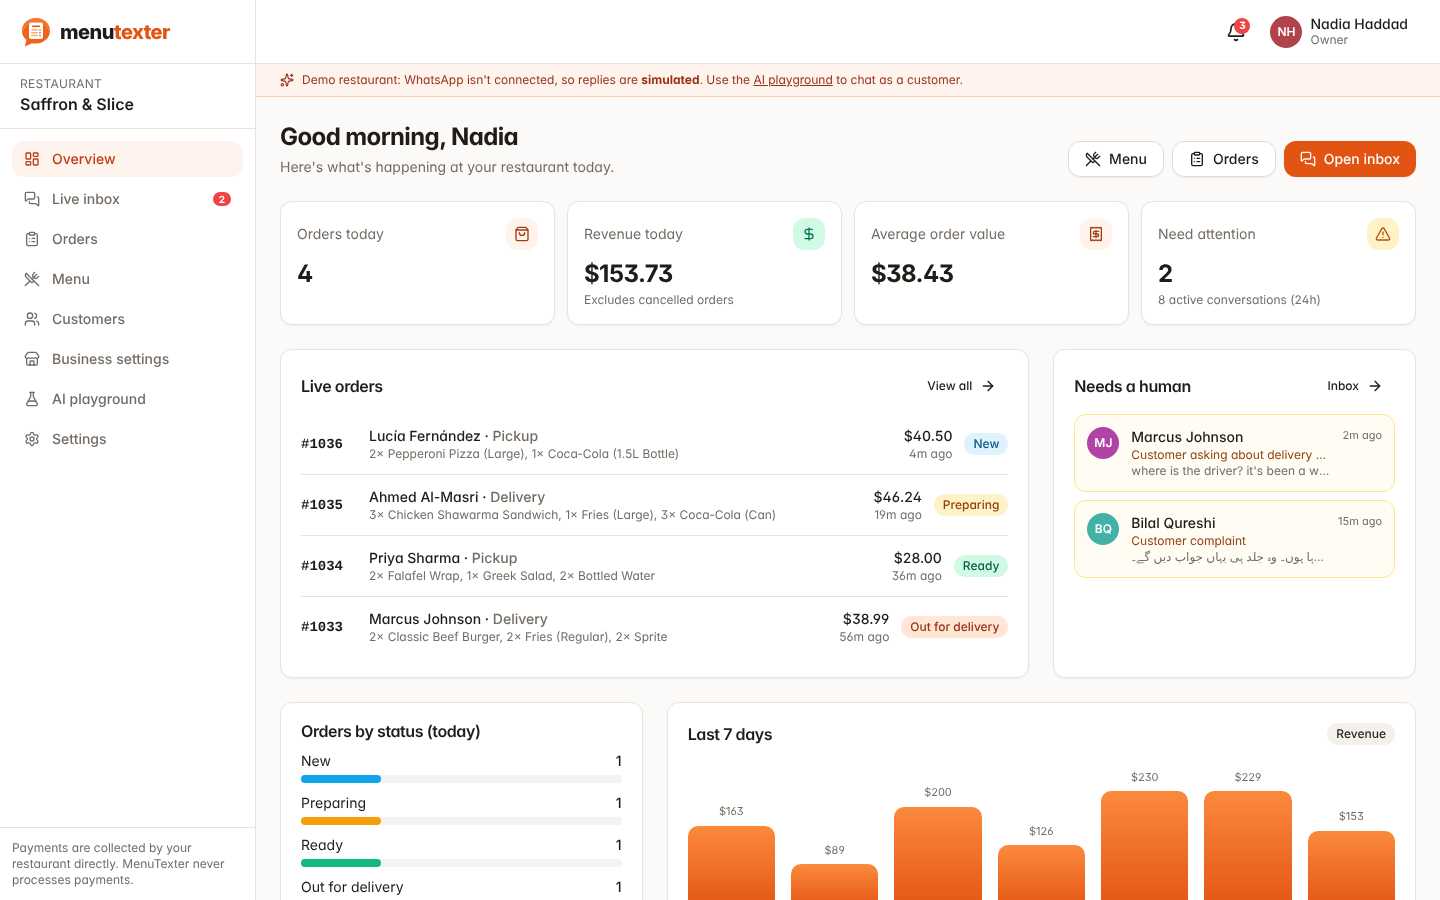
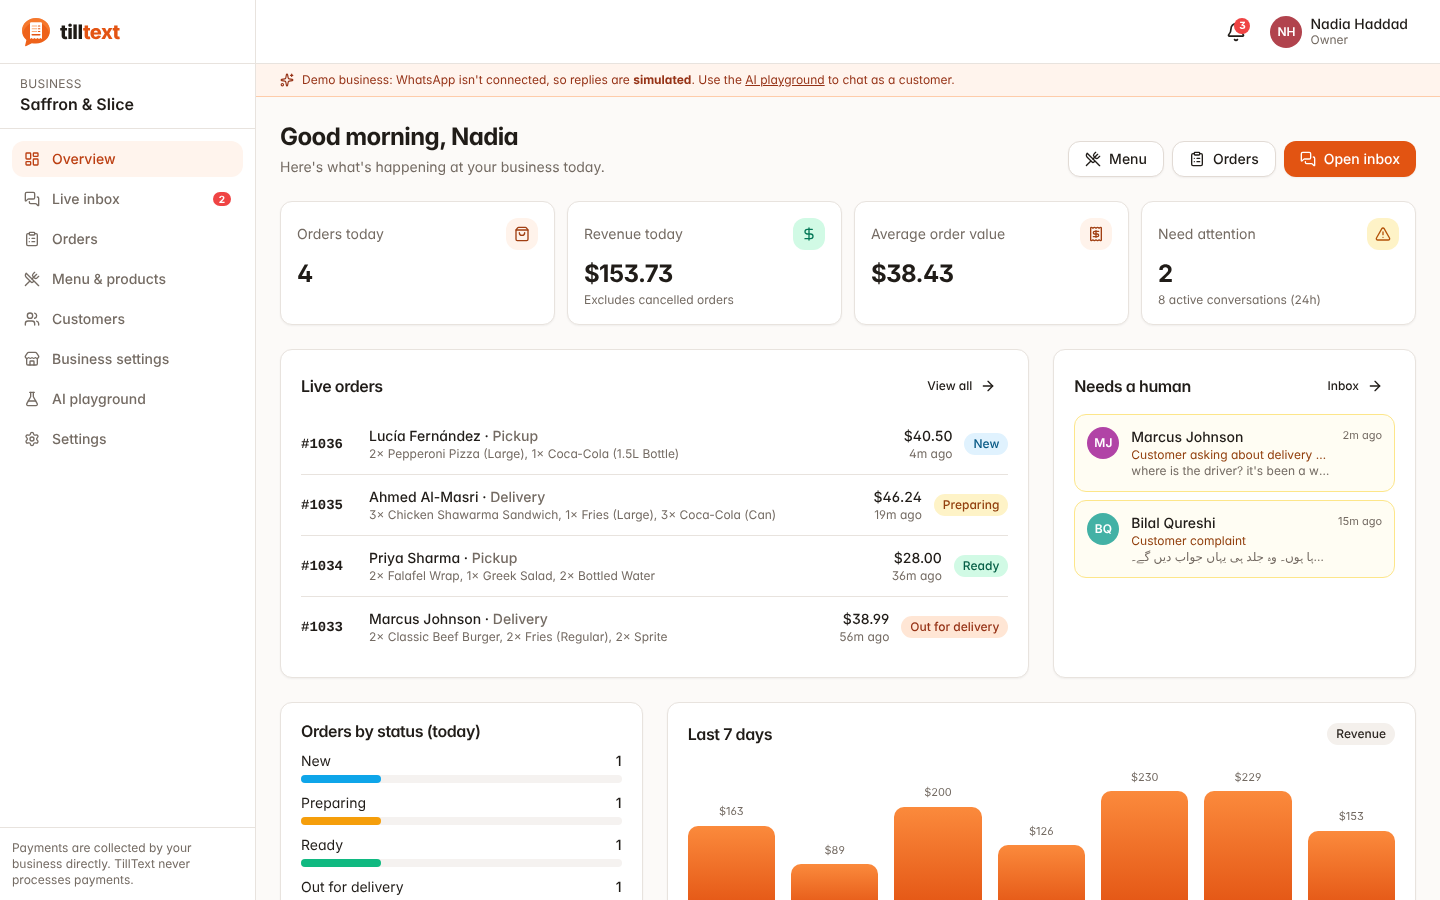
Rebrand to TillText and make wording fit any local business
- Renamed MenuTexter -> TillText everywhere (UI, titles, docs, seed accounts demo@tilltext.app,
  package name, env template). tilltext.com was unregistered at the time of the rename.
- New logo: chat bubble holding a till receipt (item lines, prices, total).
- Visible copy no longer restaurant-only: business account/profile, "Menu & products",
  login hero mentions shops, groceries and pharmacies; English AI replies say
  "Here's what we have" instead of "our menu".
- README screenshots retaken.

Claude-Session: https://claude.ai/code/session_01PKQpAwiS1Dx16gNLSgQ5dy

diff --git a/src/components/settings/forms.tsx b/src/components/settings/forms.tsx
@@ -68,7 +68,7 @@ export function ProfileForm({ settings, onSaved, submitLabel = "Save", readOnly 
         </label>
       </div>
       <div className="grid grid-cols-1 gap-4 sm:grid-cols-2">
-        <Field label="Restaurant name"><Input required value={f.name} onChange={(e) => set("name", e.target.value)} disabled={readOnly} /></Field>
+        <Field label="Business name"><Input required value={f.name} onChange={(e) => set("name", e.target.value)} disabled={readOnly} /></Field>
         <Field label="Phone"><Input value={f.phone} onChange={(e) => set("phone", e.target.value)} disabled={readOnly} placeholder="+1 555 0100" /></Field>
         <Field label="Address" className="sm:col-span-2" hint="Shared with customers for pickup orders."><Input value={f.address} onChange={(e) => set("address", e.target.value)} disabled={readOnly} /></Field>
         <Field label="Email"><Input type="email" value={f.email} onChange={(e) => set("email", e.target.value)} disabled={readOnly} /></Field>
@@ -85,7 +85,7 @@ export function ProfileForm({ settings, onSaved, submitLabel = "Save", readOnly 
           <Field label="Longitude"><Input inputMode="decimal" value={f.longitude} onChange={(e) => set("longitude", e.target.value)} disabled={readOnly} /></Field>
         </div>
       </div>
-      <p className="text-xs text-muted-foreground">Coordinates are used for radius delivery zones. Tip: right-click your restaurant in Google Maps to copy them.</p>
+      <p className="text-xs text-muted-foreground">Coordinates are used for radius delivery zones. Tip: right-click your business in Google Maps to copy them.</p>
       {!readOnly && <Button type="submit" loading={busy}>{submitLabel}</Button>}
     </form>
   );
@@ -151,7 +151,7 @@ export function DeliveryForm({ settings, onSaved, submitLabel = "Save delivery &
     <div className="space-y-5">
       <div className="grid grid-cols-1 gap-3 sm:grid-cols-2">
         <SwitchRow label="Delivery" description="Customers can ask for delivery" checked={f.deliveryEnabled} onCheckedChange={(v) => setF({ ...f, deliveryEnabled: v })} disabled={readOnly} />
-        <SwitchRow label="Pickup" description="Customers can collect from the restaurant" checked={f.pickupEnabled} onCheckedChange={(v) => setF({ ...f, pickupEnabled: v })} disabled={readOnly} />
+        <SwitchRow label="Pickup" description="Customers can collect from your store" checked={f.pickupEnabled} onCheckedChange={(v) => setF({ ...f, pickupEnabled: v })} disabled={readOnly} />
       </div>
       <div className="grid grid-cols-1 gap-4 sm:grid-cols-3">
         <Field label={`Minimum order (${settings.currency})`}><Input type="number" min="0" step="0.01" value={f.minimumOrderAmount} onChange={(e) => setF({ ...f, minimumOrderAmount: e.target.value })} disabled={readOnly} /></Field>
@@ -204,7 +204,7 @@ export function PaymentForm({ settings, onSaved, submitLabel = "Save payment opt
   const { busy, save } = useSave(onSaved);
   return (
     <div className="space-y-4">
-      <div className="rounded-lg bg-muted/60 p-3 text-sm text-muted-foreground">MenuTexter never processes payments, sends payment links or asks for card details. It only records how the customer <b>prefers</b> to pay you.</div>
+      <div className="rounded-lg bg-muted/60 p-3 text-sm text-muted-foreground">TillText never processes payments, sends payment links or asks for card details. It only records how the customer <b>prefers</b> to pay you.</div>
       <div>
         <p className="mb-1.5 text-sm font-medium">Payment methods you accept</p>
         <div className="flex flex-wrap gap-2">

diff --git a/src/components/dashboard/shell.tsx b/src/components/dashboard/shell.tsx
@@ -16,7 +16,7 @@ const NAV: { href: string; label: string; icon: typeof LayoutDashboard; perm: Pe
   { href: "/dashboard", label: "Overview", icon: LayoutDashboard, perm: "overview:read" },
   { href: "/dashboard/inbox", label: "Live inbox", icon: MessagesSquare, perm: "inbox:read", badge: "attention" },
   { href: "/dashboard/orders", label: "Orders", icon: ClipboardList, perm: "orders:read" },
-  { href: "/dashboard/menu", label: "Menu", icon: UtensilsCrossed, perm: "menu:read" },
+  { href: "/dashboard/menu", label: "Menu & products", icon: UtensilsCrossed, perm: "menu:read" },
   { href: "/dashboard/customers", label: "Customers", icon: Users, perm: "customers:read" },
   { href: "/dashboard/business", label: "Business settings", icon: Store, perm: "settings:read" },
   { href: "/dashboard/playground", label: "AI playground", icon: FlaskConical, perm: "playground:use" },
@@ -61,11 +61,11 @@ export function DashboardShell({ user, children }: { user: ShellUser; children: 
       <aside className="sticky top-0 hidden h-screen w-64 shrink-0 flex-col border-r bg-card lg:flex">
         <div className="flex h-16 items-center border-b px-5"><Logo /></div>
         <div className="border-b px-5 py-3">
-          <p className="text-xs uppercase tracking-wide text-muted-foreground">Restaurant</p>
+          <p className="text-xs uppercase tracking-wide text-muted-foreground">Business</p>
           <p className="truncate font-semibold">{user.restaurantName}</p>
         </div>
         {nav}
-        <div className="border-t p-3 text-xs text-muted-foreground">Payments are collected by your restaurant directly. MenuTexter never processes payments.</div>
+        <div className="border-t p-3 text-xs text-muted-foreground">Payments are collected by your business directly. TillText never processes payments.</div>
       </aside>
 
       {/* Mobile drawer */}
@@ -115,7 +115,7 @@ export function DashboardShell({ user, children }: { user: ShellUser; children: 
         {user.isDemo && (
           <div className="flex items-center gap-2 border-b border-brand-200 bg-brand-50 px-4 py-2 text-xs text-brand-800 sm:px-6">
             <Sparkles className="h-3.5 w-3.5 shrink-0" />
-            <span>Demo restaurant: WhatsApp isn&apos;t connected, so replies are <b>simulated</b>. Use the <Link className="underline" href="/dashboard/playground">AI playground</Link> to chat as a customer.</span>
+            <span>Demo business: WhatsApp isn&apos;t connected, so replies are <b>simulated</b>. Use the <Link className="underline" href="/dashboard/playground">AI playground</Link> to chat as a customer.</span>
           </div>
         )}
         <main className="flex-1 p-4 sm:p-6">{children}</main>

diff --git a/prisma/seed.ts b/prisma/seed.ts
@@ -1,6 +1,6 @@
 /* Demo data: "Saffron & Slice", a Mediterranean pizza & grill in Brooklyn.
  * Run with `npm run db:seed`. Idempotent: the demo restaurant is deleted and recreated.
- * Login: demo@menutexter.app / demo-password-2026 (also manager@ and kitchen@ with the same password).
+ * Login: demo@tilltext.app / demo-password-2026 (also manager@ and kitchen@ with the same password).
  */
 import { PrismaClient, type OrderStatus, type Prisma } from "@prisma/client";
 import { encrypt, hashPhone, randomToken } from "../src/server/crypto";
@@ -128,7 +128,7 @@ async function main() {
     await db.order.deleteMany({ where: { restaurantId: existing.id } });
     await db.restaurant.delete({ where: { id: existing.id } });
   }
-  await db.user.deleteMany({ where: { email: { in: ["demo@menutexter.app", "manager@menutexter.app", "kitchen@menutexter.app"] } } });
+  await db.user.deleteMany({ where: { email: { in: ["demo@tilltext.app", "manager@tilltext.app", "kitchen@tilltext.app"] } } });
 
   const passwordHash = await hashPassword(PASSWORD);
   const r = await db.restaurant.create({
@@ -177,9 +177,9 @@ async function main() {
       whatsapp: { create: { webhookKey: randomToken(18), verifyToken: randomToken(24), status: "NOT_CONNECTED" } },
       users: {
         create: [
-          { email: "demo@menutexter.app", name: "Nadia Haddad", role: "OWNER", passwordHash },
-          { email: "manager@menutexter.app", name: "Omar Khalil", role: "MANAGER", passwordHash },
-          { email: "kitchen@menutexter.app", name: "Jess Rivera", role: "STAFF", passwordHash },
+          { email: "demo@tilltext.app", name: "Nadia Haddad", role: "OWNER", passwordHash },
+          { email: "manager@tilltext.app", name: "Omar Khalil", role: "MANAGER", passwordHash },
+          { email: "kitchen@tilltext.app", name: "Jess Rivera", role: "STAFF", passwordHash },
         ],
       },
     },
@@ -386,7 +386,7 @@ async function main() {
   await db.auditLog.create({ data: { restaurantId: r.id, actorType: "SYSTEM", action: "demo.seeded", entityType: "Restaurant", entityId: r.id } });
 
   console.log(`Seeded "${r.name}" with ${items.length} menu items, ${customers.length} customers, ${seq - 1000} orders.`);
-  console.log(`Login: demo@menutexter.app / ${PASSWORD}  (also manager@menutexter.app, kitchen@menutexter.app)`);
+  console.log(`Login: demo@tilltext.app / ${PASSWORD}  (also manager@tilltext.app, kitchen@tilltext.app)`);
 }
 
 main()

diff --git a/src/components/brand.tsx b/src/components/brand.tsx
@@ -1,18 +1,16 @@
 import { cn } from "@/lib/utils";
 
-/** MenuTexter logo: a chat bubble holding a menu card (dish lines + price dots), i.e. "text the menu". */
+/** TillText logo: a chat bubble holding a till receipt (item lines, prices and a total), i.e. "order at the till, by text". */
 export function LogoMark({ className }: { className?: string }) {
   return (
     <svg viewBox="0 0 64 64" className={cn("h-8 w-8", className)} aria-hidden>
       {/* Solid fills (no gradient ids) so multiple instances never clash, e.g. when one is display:none. */}
       <path d="M32 4C16.54 4 4 15.4 4 29.5c0 7.3 3.37 13.88 8.78 18.53L10.2 59.2a1 1 0 0 0 1.43 1.1l12.06-6.02A30.6 30.6 0 0 0 32 55c15.46 0 28-11.4 28-25.5S47.46 4 32 4Z" fill="#EE621A" />
       <path d="M32 4C16.54 4 4 15.4 4 29.5c0 2.2.3 4.33.87 6.36C8.6 22.1 19.3 12 32 12s23.4 10.1 27.13 23.86c.57-2.03.87-4.16.87-6.36C60 15.4 47.46 4 32 4Z" fill="#FB8A3C" opacity=".55" />
-      <rect x="18" y="13" width="28" height="33" rx="4.5" fill="#fff" />
-      <path d="M25.5 20.5h13" stroke="#E35413" strokeWidth="3.2" strokeLinecap="round" />
-      <path d="M23.5 28h11M23.5 33.5h11M23.5 39h11" stroke="#FDAC74" strokeWidth="2.6" strokeLinecap="round" />
-      <circle cx="40" cy="28" r="1.7" fill="#E35413" />
-      <circle cx="40" cy="33.5" r="1.7" fill="#E35413" />
-      <circle cx="40" cy="39" r="1.7" fill="#E35413" />
+      <path d="M20 15a2.5 2.5 0 0 1 2.5-2.5h19A2.5 2.5 0 0 1 44 15v31l-3-2.2-3 2.2-3-2.2-3 2.2-3-2.2-3 2.2-3-2.2-3 2.2Z" fill="#fff" />
+      <path d="M24.5 20h9M24.5 25.5h9M24.5 31h9" stroke="#FDAC74" strokeWidth="2.4" strokeLinecap="round" />
+      <path d="M37 20h2.5M37 25.5h2.5M37 31h2.5" stroke="#E35413" strokeWidth="2.4" strokeLinecap="round" />
+      <path d="M24.5 37.5h15" stroke="#E35413" strokeWidth="3.2" strokeLinecap="round" />
     </svg>
   );
 }
@@ -22,8 +20,8 @@ export function Logo({ className, markClassName }: { className?: string; markCla
     <span className={cn("inline-flex items-center gap-2", className)}>
       <LogoMark className={markClassName} />
       <span className="text-xl font-extrabold tracking-tight">
-        <span className="text-ink">menu</span>
-        <span className="text-brand-600">texter</span>
+        <span className="text-ink">till</span>
+        <span className="text-brand-600">text</span>
       </span>
     </span>
   );

diff --git a/src/app/(auth)/layout.tsx b/src/app/(auth)/layout.tsx
@@ -21,13 +21,13 @@ export default async function AuthLayout({ children }: { children: React.ReactNo
       <div className="relative hidden overflow-hidden bg-gradient-to-br from-brand-500 to-brand-700 lg:flex lg:flex-col lg:justify-center lg:px-16 text-white">
         <div className="absolute -right-24 -top-24 h-96 w-96 rounded-full bg-white/10" />
         <div className="absolute -bottom-32 -left-16 h-96 w-96 rounded-full bg-white/5" />
-        <h2 className="relative text-4xl font-bold leading-tight">Your restaurant&apos;s orders,<br />straight from WhatsApp.</h2>
-        <p className="relative mt-4 max-w-md text-lg text-white/85">Customers text or send a voice note in their own language. MenuTexter understands it, confirms the order and drops it into your dashboard.</p>
+        <h2 className="relative text-4xl font-bold leading-tight">Your orders,<br />straight from WhatsApp.</h2>
+        <p className="relative mt-4 max-w-md text-lg text-white/85">Customers text or send a voice note in their own language. TillText understands it, confirms the order and drops it into your dashboard.</p>
         <ul className="relative mt-10 space-y-4 text-white/90">
           {[
             [MessageCircle, "Text and voice-note ordering, 24/7"],
             [Languages, "Replies in the customer's language"],
-            [ClipboardCheck, "Only your real menu, prices and hours"],
+            [ClipboardCheck, "Only your real products, prices and hours"],
           ].map(([Icon, text], i) => {
             const I = Icon as typeof MessageCircle;
             return (
@@ -38,7 +38,7 @@ export default async function AuthLayout({ children }: { children: React.ReactNo
             );
           })}
         </ul>
-        <p className="relative mt-12 text-sm text-white/70">No payment processing. Customers pay you directly, the way they always have.</p>
+        <p className="relative mt-12 text-sm text-white/70">For restaurants, shops, groceries, pharmacies and more. No payment processing: customers pay you directly.</p>
       </div>
     </div>
   );

diff --git a/src/app/(auth)/login/login-form.tsx b/src/app/(auth)/login/login-form.tsx
@@ -39,7 +39,7 @@ export function LoginForm({ demo }: { demo: boolean }) {
   return (
     <div className="mt-8 space-y-6">
       <form onSubmit={submit} className="space-y-4">
-        <Field label="Email"><Input name="email" type="email" autoComplete="email" required placeholder="you@restaurant.com" /></Field>
+        <Field label="Email"><Input name="email" type="email" autoComplete="email" required placeholder="you@yourbusiness.com" /></Field>
         <Field label="Password"><Input name="password" type="password" autoComplete="current-password" required /></Field>
         {error && <p className="rounded-lg bg-red-50 px-3 py-2 text-sm text-red-700" role="alert">{error}</p>}
         <Button type="submit" className="w-full" loading={loading === "login"}>Sign in</Button>
@@ -47,7 +47,7 @@ export function LoginForm({ demo }: { demo: boolean }) {
       {demo && (
         <div className="rounded-xl border border-dashed border-brand-300 bg-brand-50 p-4">
           <p className="text-sm font-medium text-brand-800">Just looking around?</p>
-          <p className="mt-0.5 text-xs text-brand-700">Explore a fully loaded demo restaurant with sample conversations, orders and a menu.</p>
+          <p className="mt-0.5 text-xs text-brand-700">Explore a fully loaded demo business (a restaurant) with sample conversations, orders and products.</p>
           <Button variant="outline" className="mt-3 w-full" onClick={tryDemo} loading={loading === "demo"}><Sparkles /> Try the demo</Button>
         </div>
       )}

diff --git a/src/app/(auth)/signup/page.tsx b/src/app/(auth)/signup/page.tsx
@@ -26,10 +26,10 @@ export default function SignupPage() {
 
   return (
     <>
-      <h1 className="text-2xl font-bold tracking-tight">Create your restaurant account</h1>
+      <h1 className="text-2xl font-bold tracking-tight">Create your business account</h1>
       <p className="mt-1 text-sm text-muted-foreground">Set up takes about 10 minutes. You&apos;ll connect WhatsApp in the next steps.</p>
       <form onSubmit={submit} className="mt-8 space-y-4">
-        <Field label="Restaurant name"><Input name="restaurantName" required minLength={2} placeholder="e.g. Saffron & Slice" /></Field>
+        <Field label="Business name"><Input name="restaurantName" required minLength={2} placeholder="e.g. Saffron & Slice or Corner Pharmacy" /></Field>
         <Field label="Your name"><Input name="name" required minLength={2} autoComplete="name" /></Field>
         <Field label="Email"><Input name="email" type="email" required autoComplete="email" /></Field>
         <Field label="Password" hint="At least 10 characters, with letters and numbers."><Input name="password" type="password" required minLength={10} autoComplete="new-password" /></Field>

diff --git a/src/app/onboarding/wizard.tsx b/src/app/onboarding/wizard.tsx
@@ -13,11 +13,11 @@ import { api } from "@/lib/api";
 import { cn } from "@/lib/utils";
 
 const STEPS = [
-  { title: "Restaurant profile", icon: Store, description: "The basics customers will see." },
+  { title: "Business profile", icon: Store, description: "The basics customers will see." },
   { title: "Opening hours", icon: Clock, description: "The AI never accepts orders or promises times outside these." },
   { title: "Delivery & pickup", icon: Truck, description: "Zones, fees and minimum order." },
   { title: "Payments", icon: CreditCard, description: "How customers pay you directly. No online payments." },
-  { title: "Menu", icon: UtensilsCrossed, description: "The AI only sells what's on your menu." },
+  { title: "Menu & products", icon: UtensilsCrossed, description: "The AI only sells what's in your menu or product list." },
   { title: "Connect WhatsApp", icon: MessageCircle, description: "Link your WhatsApp Business number." },
   { title: "All set", icon: PartyPopper, description: "" },
 ];

diff --git a/src/app/dashboard/orders/[id]/page.tsx b/src/app/dashboard/orders/[id]/page.tsx
@@ -56,7 +56,7 @@ export default async function OrderPage({ params }: { params: Promise<{ id: stri
                 <div className="flex justify-between"><span className="text-muted-foreground">Subtotal</span><span>{m(o.subtotal)}</span></div>
                 {o.type === "DELIVERY" && <div className="flex justify-between"><span className="text-muted-foreground">Delivery fee{o.deliveryZone ? ` (${o.deliveryZone})` : ""}</span><span>{m(o.deliveryFee)}</span></div>}
                 <div className="flex justify-between text-base font-bold"><span>Total</span><span>{m(o.total)}</span></div>
-                <p className="pt-1 text-xs text-muted-foreground">Payment preference: <b>{PAYMENT_LABEL[o.paymentPreference]}</b>. Collected by the restaurant, not online.</p>
+                <p className="pt-1 text-xs text-muted-foreground">Payment preference: <b>{PAYMENT_LABEL[o.paymentPreference]}</b>. Collected by your business, not online.</p>
               </div>
             </CardContent>
           </Card>

diff --git a/src/server/ai/i18n.ts b/src/server/ai/i18n.ts
@@ -37,7 +37,7 @@ const en = {
   soldOut: "Sorry, {item} is sold out right now.",
   unavailable: "Sorry, {item} isn't available right now.",
   alternatives: "You might like: {alts}.",
-  unknownItem: "Sorry, we don't have \"{item}\" on our menu.",
+  unknownItem: "Sorry, we don't have \"{item}\".",
   unknownAddon: "\"{addon}\" isn't available for {item}. Options: {options}.",
   unknownVariant: "{item} doesn't come in \"{requested}\". Options: {options}.",
   closed: "We're closed right now. We open {next}.",
@@ -69,7 +69,7 @@ const en = {
   orderStatusAnswer: "Your order #{number} is: {status}.",
   noOrders: "You don't have any orders with us yet.",
   deliveryYes: "Yes, we deliver there! Delivery fee: {fee}.",
-  menuIntro: "Here's our menu:",
+  menuIntro: "Here's what we have:",
   addressLabel: "We're at: {address}.",
   rateLimited: "You're sending messages very quickly. Please wait a moment and try again.",
   "status.NEW": "received",

diff --git a/src/app/api/whatsapp/test/route.ts b/src/app/api/whatsapp/test/route.ts
@@ -26,7 +26,7 @@ export const POST = route(async (req) => {
     const json = (await res.json()) as { error?: { message?: string; code?: number } };
     if (!res.ok) throw new MetaApiError(json.error?.message ?? "Test message failed", res.status, json.error?.code);
     // Free-form text too: delivered only if the recipient has messaged this number in the last 24h.
-    await sendMessage(creds, normalizePhone(to), { kind: "text", text: "✅ MenuTexter test message: your WhatsApp connection works!" }).catch(() => undefined);
+    await sendMessage(creds, normalizePhone(to), { kind: "text", text: "✅ TillText test message: your WhatsApp connection works!" }).catch(() => undefined);
     await db.whatsAppAccount.update({ where: { restaurantId: s.restaurantId }, data: { lastTestAt: new Date(), lastError: null } });
     return ok({ sent: true });
   } catch (err) {

diff --git a/src/app/dashboard/playground/playground.tsx b/src/app/dashboard/playground/playground.tsx
@@ -258,7 +258,7 @@ function Simulator({ restaurantLocation }: { restaurantLocation: { lat: number; 
       </Card>
       <Card className="flex h-[640px] flex-col overflow-hidden lg:col-span-2">
         <div className="flex items-center gap-3 border-b bg-[#7a2e10] px-4 py-3 text-white">
-          <Bot className="h-5 w-5" /><span className="font-semibold">Your restaurant (WhatsApp preview)</span>
+          <Bot className="h-5 w-5" /><span className="font-semibold">Your business (WhatsApp preview)</span>
           {conv && <Badge variant={conv.mode === "AI" ? "brand" : "info"} className="ml-auto">{conv.mode === "AI" ? "AI handling" : "Staff handling"}</Badge>}
         </div>
         <div className="chat-bg flex-1 space-y-2 overflow-y-auto p-4">
